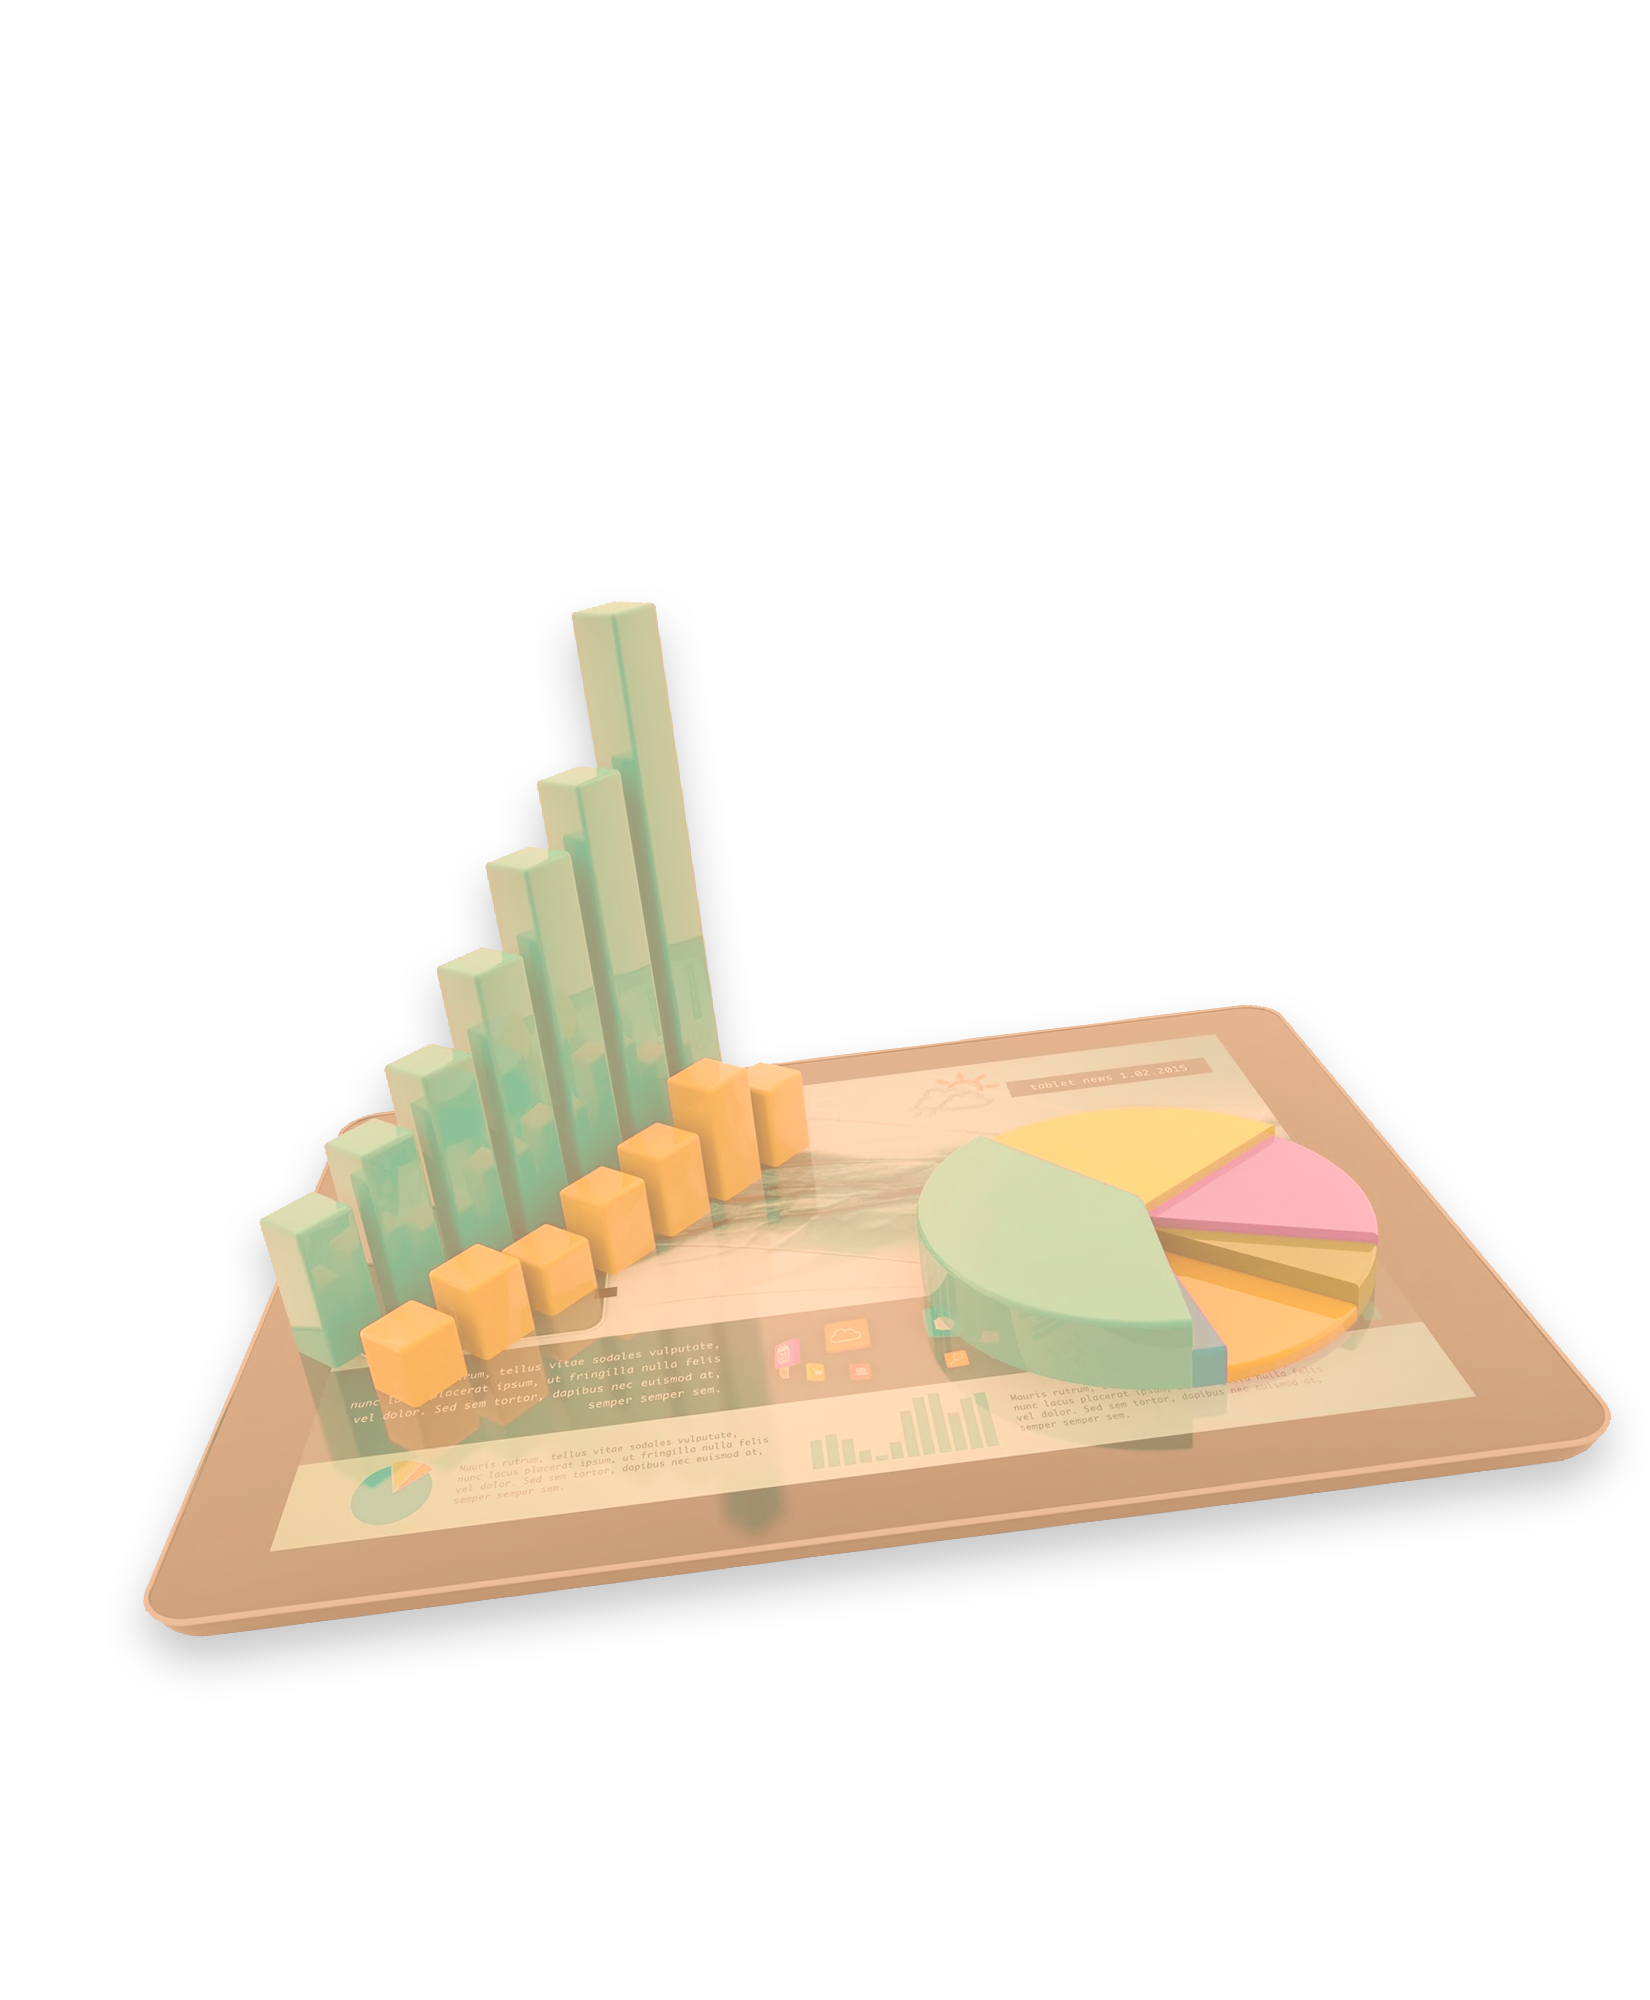
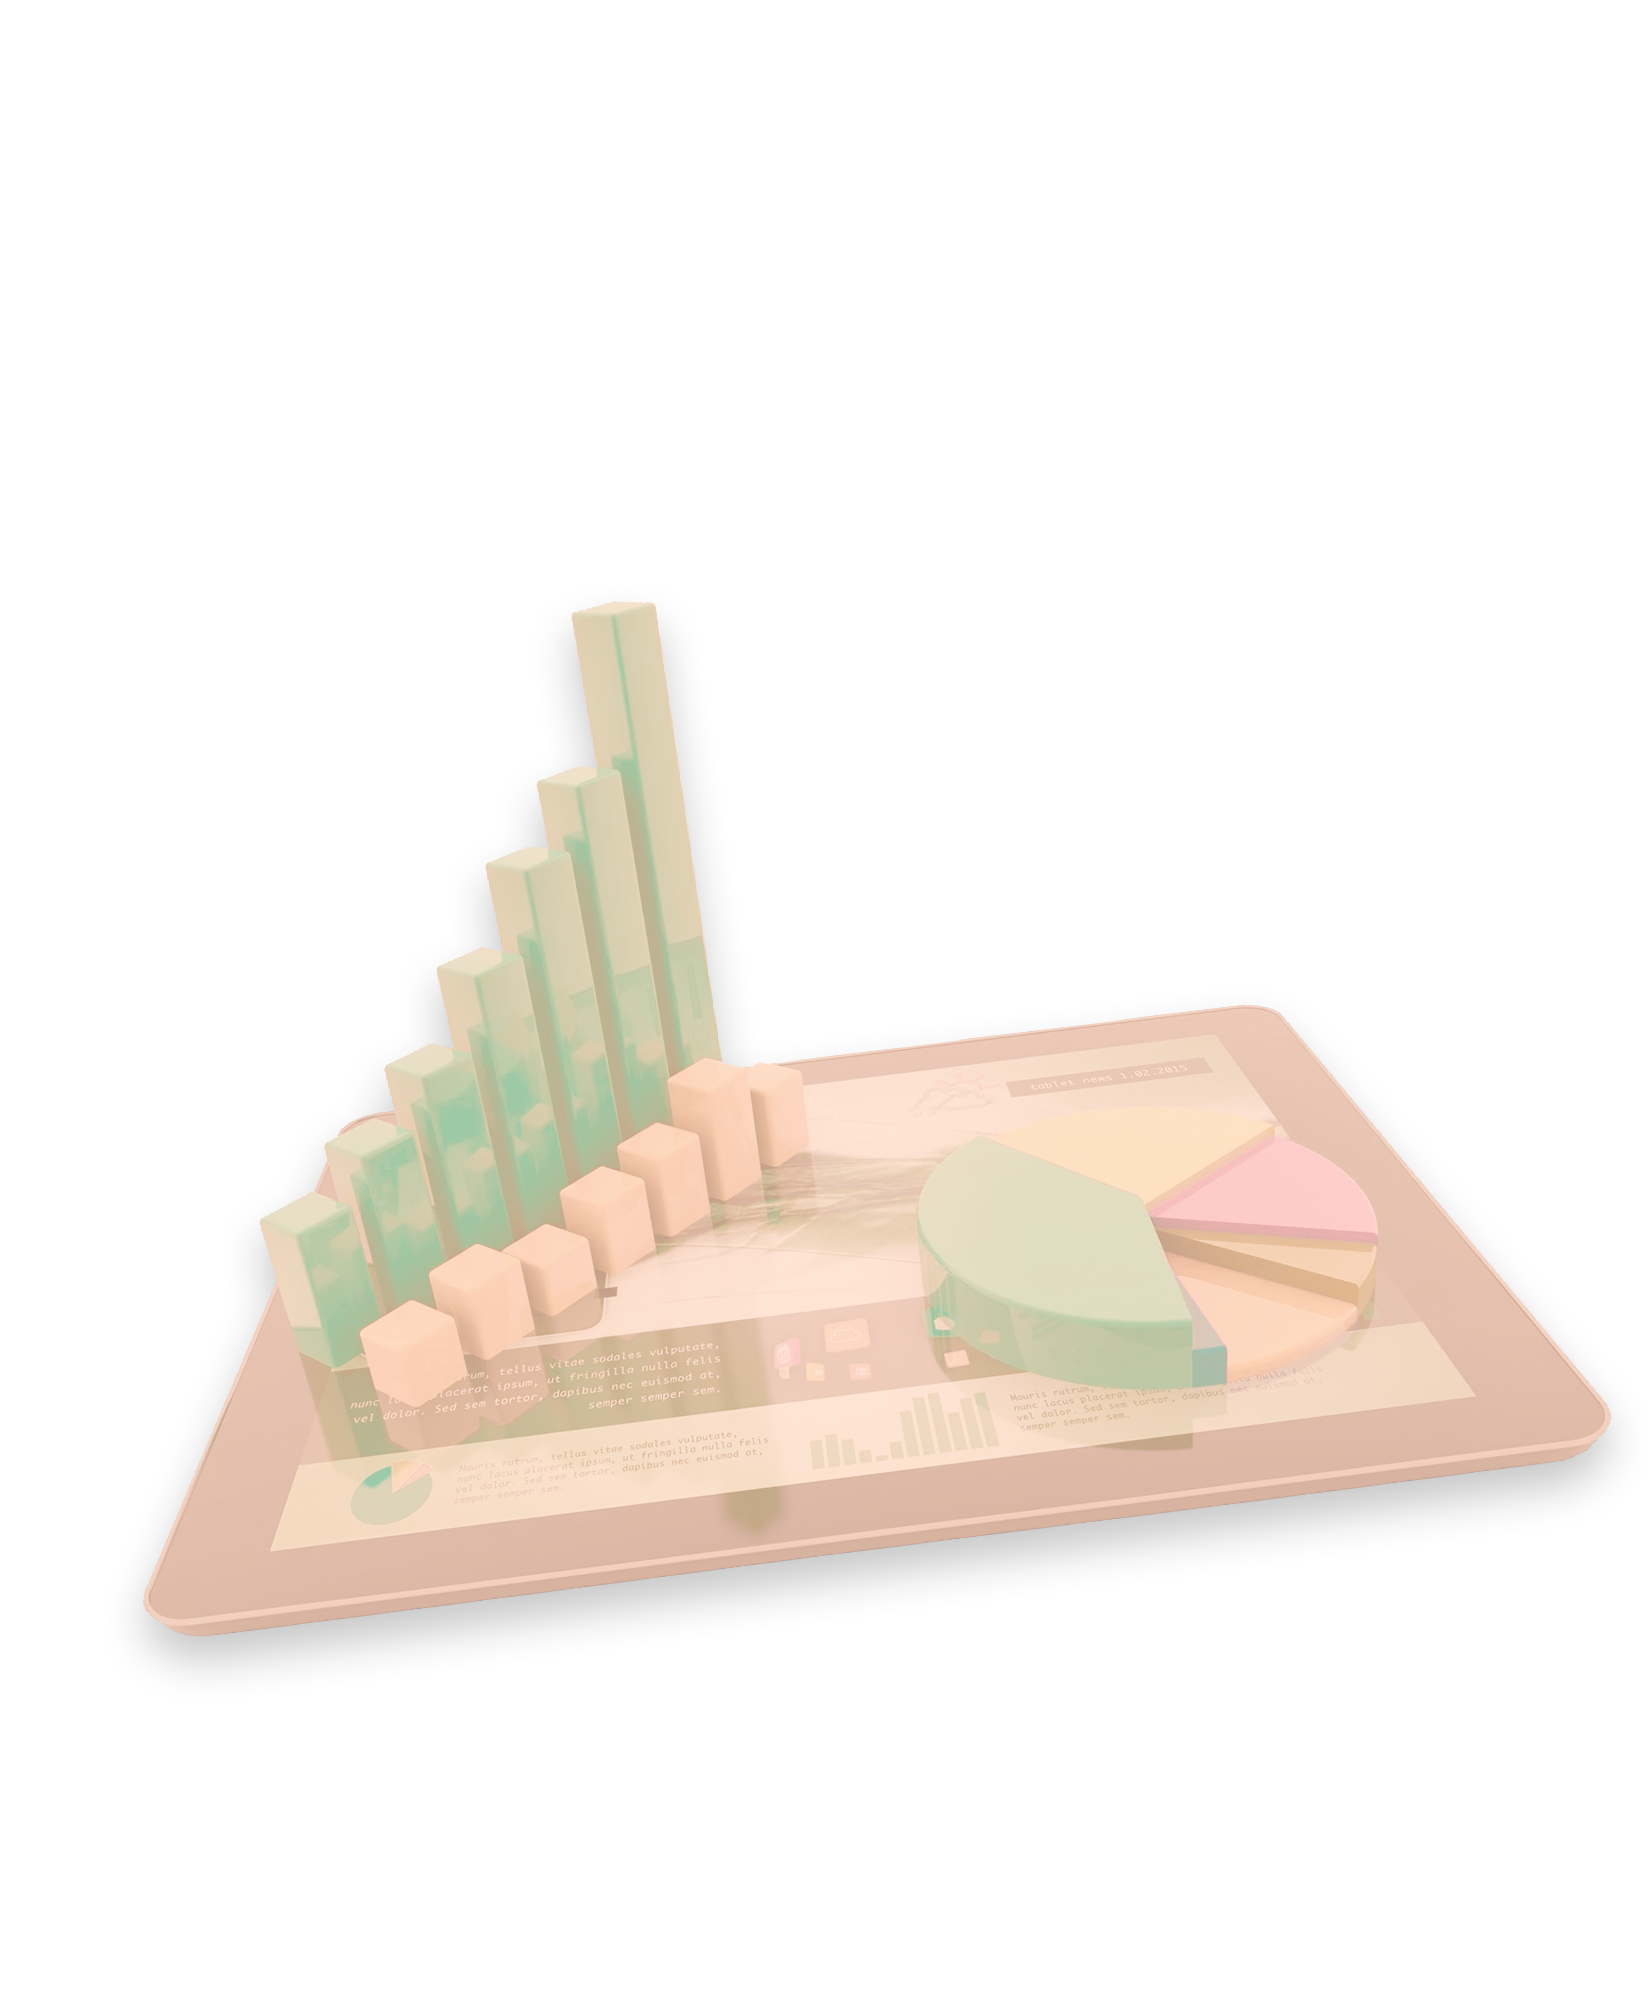
add user darkmode

Changed region(s): [[0.0927, 0.403, 0.9891, 0.837]]

diff --git a/whois_client/src/components/AuthForm.vue b/whois_client/src/components/AuthForm.vue
@@ -64,7 +64,7 @@
 
   <div class = 'toggle-switch'>
     <label>
-      <input type = 'checkbox' v-model="checkedDark" @click="toggleDark()">
+      <input type = 'checkbox' :checked="!isDark" @click="ChangeDarkMode">
       <span class = 'slider'></span>
     </label>
   </div>
@@ -74,23 +74,21 @@
 </div>
 </template>
 
-<script setup>
-  import { useDark, useToggle } from "@vueuse/core";
-
-  const isDark = useDark();
-  const toggleDark = useToggle(isDark);
-</script>
-
 <script>
 import WhoisDataService from '../services/WhoisDataService';
 import AlertMessages from './AlertMessages.vue';
+import { useToggle, useDark } from '@vueuse/core';
 
 export default {
     name: "AuthForm",
+    setup() {
+      const isDark = useDark()
+      const toggleDark = useToggle(isDark)
+      return {toggleDark, isDark}
+    },
     data() {
         return {
             isLog: true,
-            checkedDark: false,
             Name: "",
             Email: "",
             Password: "",
@@ -101,6 +99,7 @@ export default {
             authId: 0,
             userName: "",
             userDomain: "",
+            userDarkMode: "Light",
         };
     },
     props: {
@@ -113,9 +112,18 @@ export default {
         this.CheckSession();
     },
     methods: {
-      // ChangeDarkMode(){
-      //   if(this.checkedDark) toggleDark()
-      // },
+        ChangeDarkMode() {
+          this.toggleDark();
+          if(!this.isLog){
+            WhoisDataService.update({
+              userId: this.authId,
+              name: "",
+              email: "",
+              password: "",
+              darkMode: this.isDark ? "Dark" : "Light",
+            })
+          }
+        },
         AddAlert(mess){
             this.$refs.AddAlertMess.AddAlertMess(mess);
         },
@@ -130,6 +138,7 @@ export default {
                         .then(res => {
                         this.userName = res.data.name;
                         this.userDomain = res.data.domains;
+                        this.userDarkMode = res.data.darkMode;
                     });
                 }
                 else {
@@ -194,8 +203,10 @@ export default {
                         var newUser = {
                             name: this.Name,
                             email: this.Email,
-                            password: this.Password
+                            password: this.Password,
+                            darkMode: 'Light',
                         };
+                        if(this.isDark) newUser.darkMode = 'Dark';
                         WhoisDataService.create(newUser)
                             .then(response => {
                             if(response.statusText == "OK"){
@@ -283,7 +294,7 @@ export default {
   right: 0;
   width: 30%;
   height: 6vw;
-  background-color: var(--color-dark);
+  background-color: var(--color-dark-font);
   border-radius: 50px;
   cursor: pointer;
 }
@@ -313,20 +324,16 @@ input:checked ~ .slider {
   width: 5vw;
   height: 5vw;
   border-radius: 50%;
-  box-shadow: inset 1.7vw -0.1vw 0px 0px var(--color-dark-font);
-  background-color: var(--color-dark);
+  box-shadow: inset 2vw -0.1vw 0px 0px var(--color-light-font);
+  background-color: var(--color-dark-font);
   transition: 0.3s;
 }
 
 input:checked ~ .slider::before {
   transform: translateX(8.5vw);
-  background-color: var(--color-dark);
+  background-color: var(--color-light-font);
   box-shadow: none;
 }
-
-/*.dark .AuthFormMain{*/
-/*  background-color: #000;*/
-/*}*/
 
 .ModChildLogin{
   text-align: center;
@@ -339,8 +346,8 @@ input:checked ~ .slider::before {
 }
 .SignOutBtn{
     margin-left: 7vw;
-    background: #bda496;
-    color: #FFF;
+    background: var(--color-dark);
+    color: var(--color-light);
     border: none;
     border-radius: 30px;
     width: calc(70% + 1.5vw);
@@ -350,7 +357,7 @@ input:checked ~ .slider::before {
 .SignOutBtn:hover{
     opacity: 0.6;
     background: #EEE;
-    color: #bda496;
+    color: var(--color-dark);;
 }
 .DomainsList{
     width: 80%;
@@ -491,7 +498,7 @@ input:checked ~ .slider::before {
 .LogBtn:hover{
     opacity: 0.6;
     background: #EEE;
-    color: var(--color-dark);;
+    color: var(--color-dark);
 }
 .LogBtn:active{
     opacity: 0.6;

diff --git a/whois_server/server.js b/whois_server/server.js
@@ -18,8 +18,8 @@ app.use(
     origin: [
       // process.env.IP_HOST,
       // 'http://188.68.222.76',
-      "https://whoisa.ru",
-      // "http://localhost",
+      // "https://whoisa.ru",
+      "http://localhost",
       // "http://whoisa.ru",
       // 'http://localhost:8080',
       // 'https://localhost:8080',
@@ -31,8 +31,8 @@ app.use(
 
 app.use(function (req, res, next) {
   // Website you wish to allow to connec
-  res.setHeader("Access-Control-Allow-Origin", "https://whoisa.ru");
-  // res.setHeader("Access-Control-Allow-Origin", "http://localhost");
+  // res.setHeader("Access-Control-Allow-Origin", "https://whoisa.ru");
+  res.setHeader("Access-Control-Allow-Origin", "http://localhost");
 
   // Request methods you wish to allow
   res.setHeader(
@@ -70,21 +70,6 @@ const PORT = process.env.PORT || 8080;
 app.listen(PORT, () => {
   console.log(`Server is running on port ${PORT}.`);
 });
-
-// const https = require("https");
-// const fs = require("fs");
-// const PORT = process.env.PORT || 8080;
-// https
-//   .createServer(
-//     {
-//       key: fs.readFileSync("./app/dockerConf/whoisa.rsa"),
-//       cert: fs.readFileSync("./app/dockerConf/whoisa.crt"),
-//     },
-//     app
-//   )
-//   .listen(PORT, () => {
-//     console.log("Listening at : " + PORT);
-//   });
 
 passportConfig(passport);
 app.use(

diff --git a/whois_client/src/App.vue b/whois_client/src/App.vue
@@ -20,12 +20,14 @@ body {
   --color-light: #f6ddcd;
   --color-dark: #bda496;
   --color-dark-font: #1b1917;
+  --color-light-font: #f9f9f8;
   --bg-i: url('./components/images/back.png');
 }
 
 html.dark {
   --bg: #1b1917;
   --color-dark-font: #f9f9f8;
+  --color-light-font: #1b1917;
   --color-light: #bda496;
   --color-dark: #282623;
   --bg-i: url('./components/images/back-dark.png');

diff --git a/whois_client/src/http-common.js b/whois_client/src/http-common.js
@@ -1,8 +1,8 @@
 import axios from "axios";
 export default axios.create({
   withCredentials: true,
-  // baseURL: "http://localhost:8080/api",
-  baseURL: "https://whoisa.ru/api",
+  baseURL: "http://localhost:8080/api",
+  // baseURL: "https://whoisa.ru/api",
   headers: {
     "Content-type": "application/json",
   },

diff --git a/whois_server/app/models/users.model.js b/whois_server/app/models/users.model.js
@@ -35,6 +35,10 @@ module.exports = (sequelize, Sequelize) => {
       allowNull: false,
       type: Sequelize.TEXT,
     },
+    darkMode: {
+      allowNull: false,
+      type: Sequelize.TEXT,
+    },
   };
 
   const User = sequelize.define("usersdb", mappings, {

diff --git a/whois_server/app/controllers/users.controller.js b/whois_server/app/controllers/users.controller.js
@@ -47,6 +47,7 @@ exports.create = (req, res) => {
       role: "user",
       status: "",
       domains: "",
+      darkMode: req.body.darkMode,
     };
     if (data[0].dataValues.user_count == 0) usersdb.role = "admin";
 
